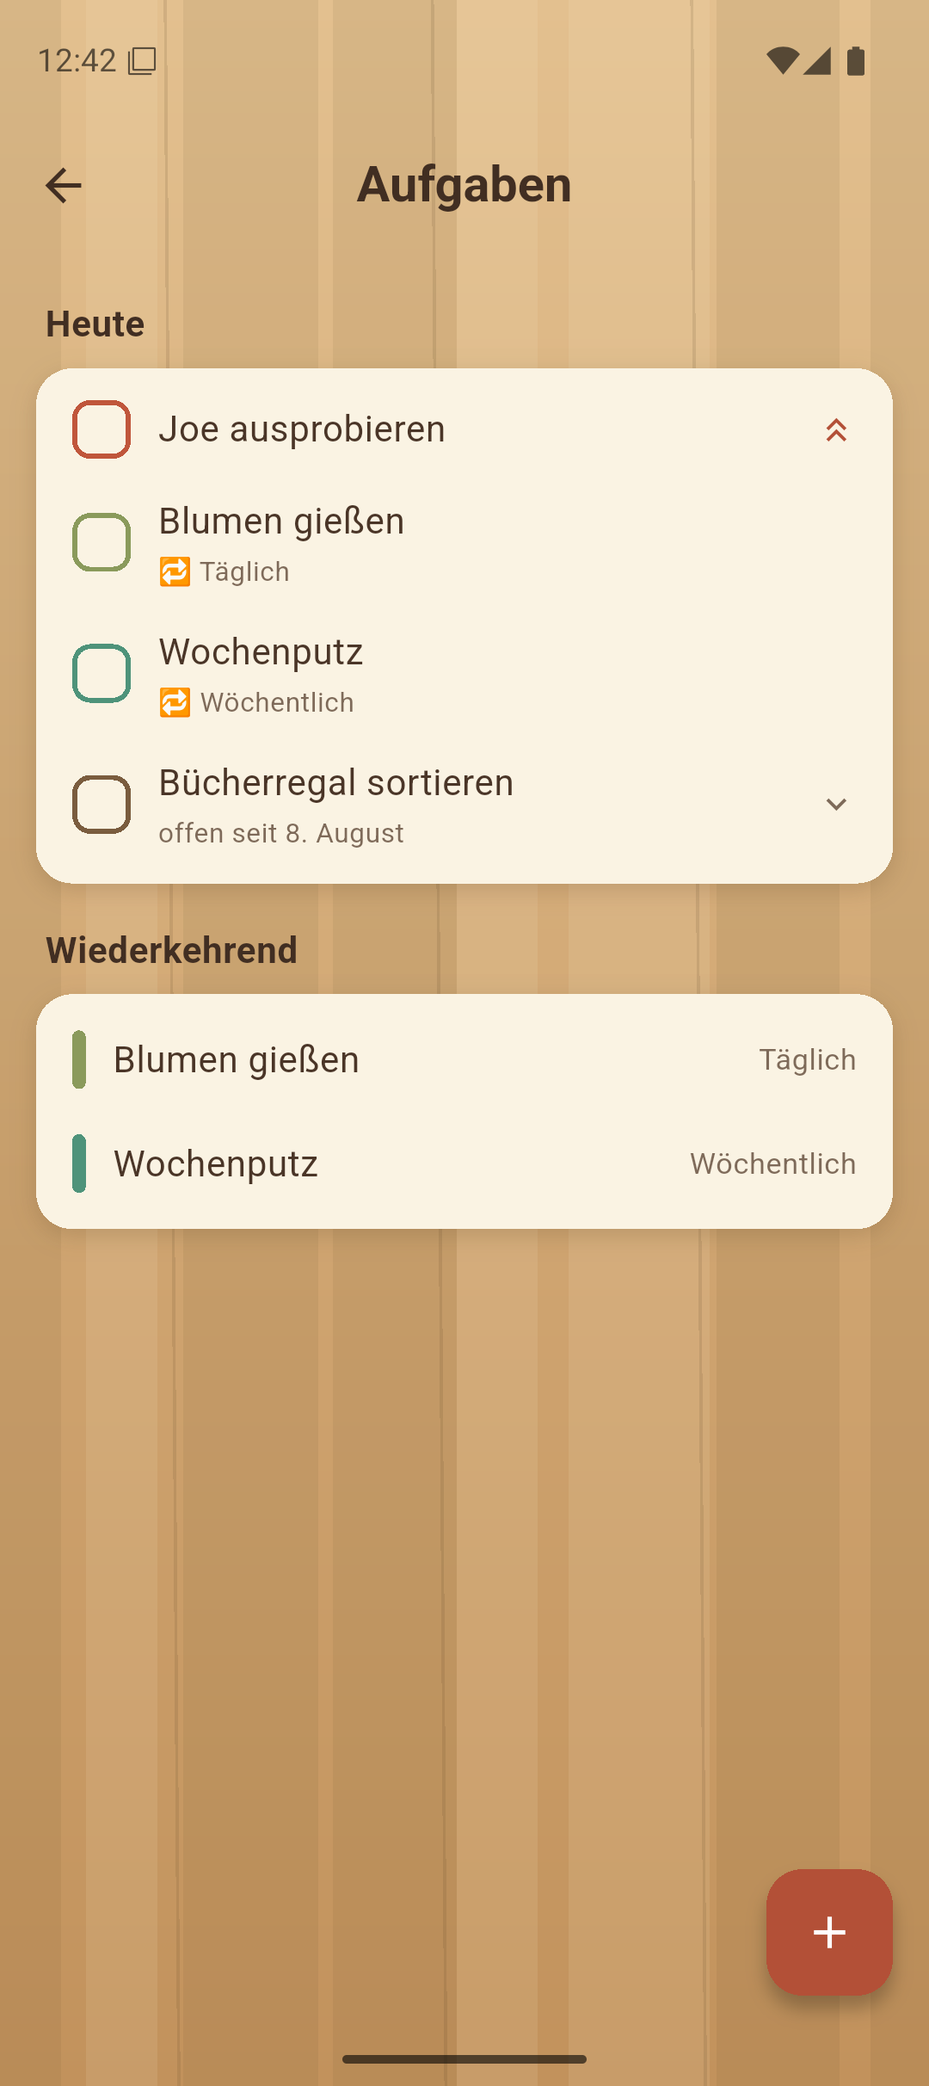
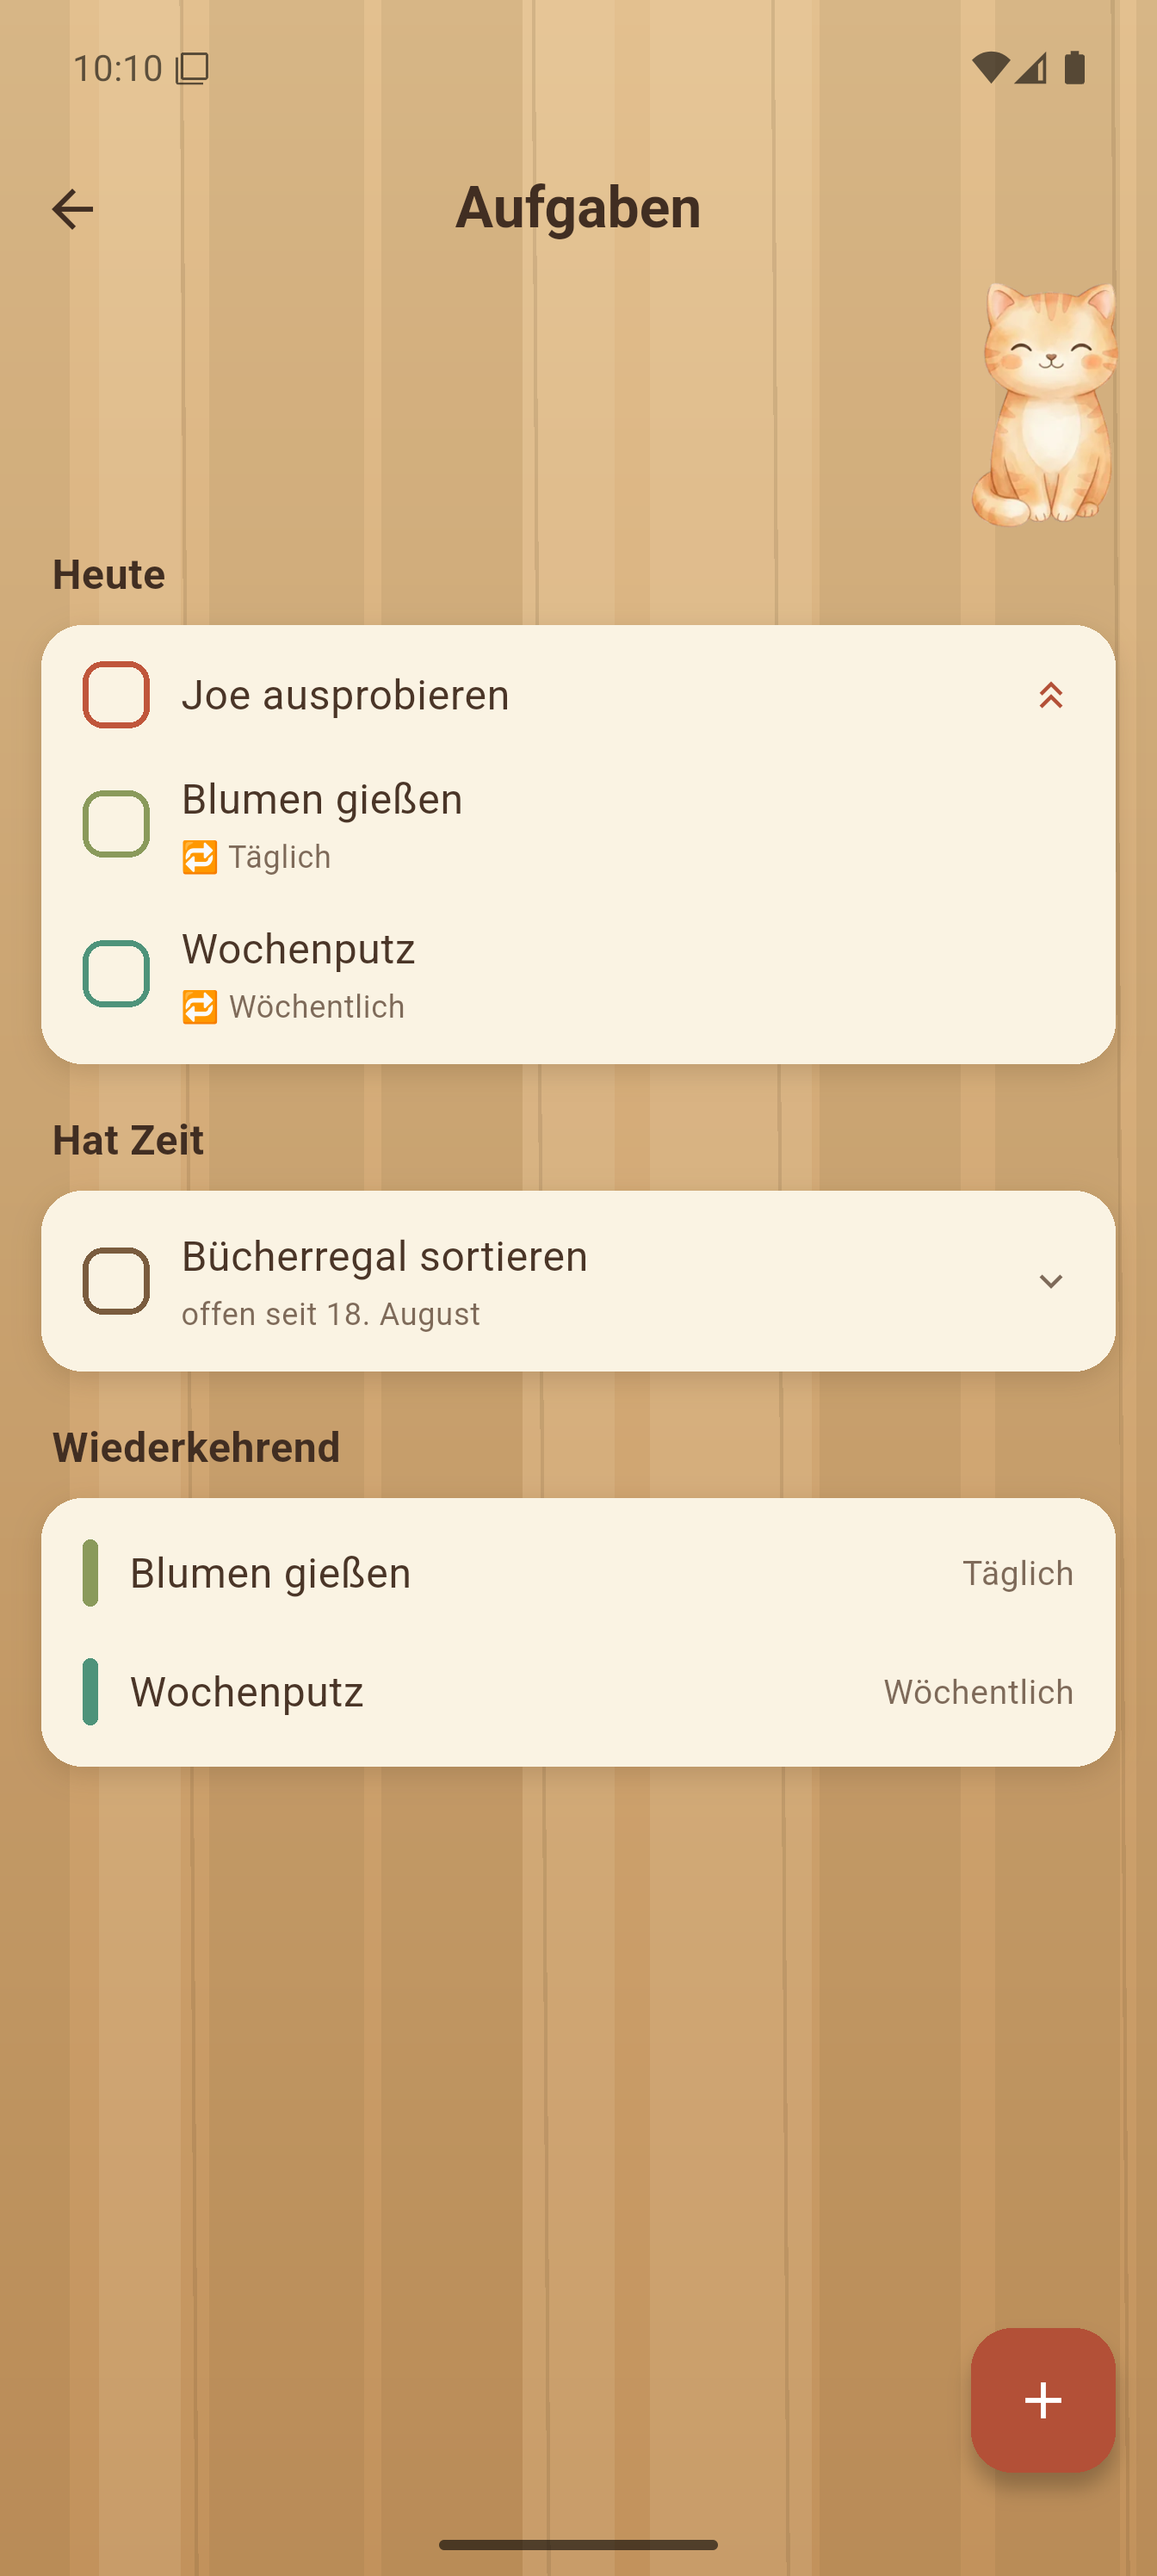
joe-todo: Stufe 3 zaehlt nur an ihrem Faelligkeitstag mit
Stufe 3 ist die leise Prioritaet. Zaehlt sie dauerhaft in "x offene Aufgaben
heute" mit, waechst die Zahl mit jedem Tag, an dem man sie liegen laesst -
und genau davor sollen die Prioritaeten schuetzen. Zaehlt sie nie mit,
verschwindet sie auch an dem Tag, an dem sie faellig ist.

Also beides: an ihrem Faelligkeitstag zaehlt sie wie jede andere Aufgabe,
danach faellt sie aus der Kopfzahl und steht nur noch im Aufklapper unter
"Hat Zeit" (vorher "Kann warten" - der Name sagte, sie duerfe warten, nicht
dass sie schon wartet). Die Grenze zieht isLowLeftover, openLowTasks heisst
darum jetzt lowLeftoverTasks.

Das Homescreen-Widget hatte die Filterung nachgebaut und zieht mit, sonst
stuende dort eine andere Zahl als in der App.

Claude-Session: https://claude.ai/code/session_01GTTHh3KS7ZpoGwavN3S3nZ

diff --git a/app/lib/models.dart b/app/lib/models.dart
@@ -47,8 +47,9 @@ const taskPaletteNames = [
 enum RecurrenceType { none, daily, weekly, monthly, everyXDays }
 
 /// Three priority levels for tasks and appointments. Level 3 ("Niedrig") is
-/// the quiet one: those tasks stay out of the open-count on the dashboard and
-/// only show up inside the fold-out list.
+/// the quiet one: an ihrem Faelligkeitstag zaehlt sie mit wie jede andere,
+/// danach faellt sie aus "x offene Aufgaben heute" heraus und steht nur noch
+/// unter "Hat Zeit" (siehe [isLowLeftover]).
 enum Priority {
   hoch(1, 'Hoch'),
   mittel(2, 'Mittel'),
@@ -203,6 +204,25 @@ class Appointment {
         reminderLeadMinutes: leadMinutesFromJson(json['reminderLeadMinutes']),
       );
 }
+
+/// Ob [task] an [day] nur noch liegen *bleibt*: Stufe 3, deren
+/// Faelligkeitstag vorbei ist.
+///
+/// Das ist die Grenze, an der sich Stufe 3 vom Rest trennt. An ihrem
+/// Faelligkeitstag ist eine leise Aufgabe eine Aufgabe wie jede andere: sie
+/// steht unter "Heute abhaken" und zaehlt in "x offene Aufgaben heute". Erst
+/// danach faellt sie aus der Zahl heraus und wandert in den Block "Hat Zeit"
+/// – sie sollte an ihrem Tag erledigt sein, muss aber nicht, und eine Zahl,
+/// die von so etwas jeden Tag weiterwaechst, sagt bald nichts mehr.
+///
+/// Nur einmalige Aufgaben koennen liegenbleiben: eine wiederkehrende ist an
+/// einem Tag entweder faellig oder gar nicht dabei.
+///
+/// Steht hier und nicht im [AppState], weil die Startbildschirm-Widgets
+/// dieselbe Grenze fuer *jeden* Tag ihres Schnappschusses brauchen, nicht
+/// nur fuer heute (siehe home_widget.dart).
+bool isLowLeftover(Task task, DateTime day) =>
+    task.priority == Priority.niedrig && !task.occursOn(day);
 
 /// Eine Erinnerungs-Uhrzeit aus dem Bestand: alles, was keine gueltige
 /// Minute im Tag ist (fehlt, falscher Typ, ausserhalb 0–1439), heisst
@@ -450,8 +470,8 @@ class AppState extends ChangeNotifier {
         colorIndex: 0,
         priority: Priority.hoch,
       ),
-      // Stufe 3: zaehlt nicht in "offene Aufgaben heute" mit und steht nur
-      // im Ausklappmenue unter "Kann warten".
+      // Stufe 3, und ihr Faelligkeitstag ist vorbei: sie zaehlt nicht mehr
+      // in "offene Aufgaben heute" mit und steht unter "Hat Zeit".
       Task(
         id: nextId(),
         title: 'Bücherregal sortieren',
@@ -605,47 +625,34 @@ class AppState extends ChangeNotifier {
   static int _soonestFirst(Task a, Task b) =>
       a.startDate.compareTo(b.startDate);
 
-  /// Tasks for the dashboard "Heute abhaken" list, without the unimportant
-  /// ones – those get their own section further down, see [openLowTasks].
-  /// Open items first, then the ones already ticked off.
+  /// Tasks for the dashboard "Heute abhaken" list, without the level-3
+  /// leftovers – those get their own block underneath, see
+  /// [lowLeftoverTasks]. Open items first, then the ones already ticked off.
   List<Task> tasksDueToday() {
     final t = today();
-    return _dueToday()
-        .where((task) => task.priority != Priority.niedrig)
-        .toList()
+    return _dueToday().where((task) => !isLowLeftover(task, t)).toList()
       ..sort(_ordered([_openFirstOn(t), _importantFirst]));
   }
 
-  /// Open level-3 tasks, newest first. Sie stehen im Aufklapper auf einem
-  /// eigenen Block, zaehlen in [openTodayCount] aber ganz normal mit.
-  List<Task> openLowTasks() {
+  /// Die liegengebliebenen Stufe-3-Aufgaben, neuste zuerst – der Block
+  /// "Hat Zeit" unter "Heute abhaken" und auf dem Aufgaben-Reiter.
+  ///
+  /// Sie sind immer offen: liegenbleiben kann nur eine einmalige Aufgabe,
+  /// die noch niemand abgehakt hat.
+  List<Task> lowLeftoverTasks() {
     final t = today();
-    return _dueToday()
-        .where((task) =>
-            task.priority == Priority.niedrig && !task.isCompletedOn(t))
-        .toList()
+    return _dueToday().where((task) => isLowLeftover(task, t)).toList()
       ..sort(_ordered([_newestFirst]));
   }
 
-  /// Was heute noch offen auf dem Teller liegt. Stufe 3 zaehlt mit: sie ist
-  /// heute genauso faellig wie der Rest, nur weiter unten einsortiert.
+  /// Was heute noch offen auf dem Teller liegt. Stufe 3 zaehlt an ihrem
+  /// Faelligkeitstag mit – da ist sie so faellig wie alles andere –, danach
+  /// nicht mehr (siehe [isLowLeftover]).
   int openTodayCount() {
     final t = today();
-    return _dueToday().where((task) => !task.isCompletedOn(t)).length;
-  }
-
-  // ---- Sections of the tasks screen ----
-
-  /// Level-3 tasks due today for the "Kann warten" block on the tasks screen.
-  /// Open first and inside that newest first, like in the dashboard fold-out.
-  /// Unlike the dashboard this keeps the ticked ones: the tasks screen is the
-  /// one place where a recurring level-3 tick can be taken back again.
-  List<Task> lowTasksToday() {
-    final t = today();
     return _dueToday()
-        .where((task) => task.priority == Priority.niedrig)
-        .toList()
-      ..sort(_ordered([_openFirstOn(t), _newestFirst]));
+        .where((task) => !task.isCompletedOn(t) && !isLowLeftover(task, t))
+        .length;
   }
 
   /// One-off tasks dated after today, soonest first.

diff --git a/app/test/models_test.dart b/app/test/models_test.dart
@@ -110,7 +110,7 @@ void main() {
       expect(appointment.priority, Priority.mittel);
     });
 
-    test('Stufe 3 zählt in "offene Aufgaben heute" mit', () {
+    test('Stufe 3 zählt an ihrem Faelligkeitstag mit', () {
       final t = today();
       final state = stateWith(tasks: [
         Task(id: '1', title: 'Wichtig', startDate: t, priority: Priority.hoch),
@@ -121,11 +121,59 @@ void main() {
             startDate: t,
             priority: Priority.niedrig),
       ]);
-      // Die Zahl nennt alles, was heute faellig und offen ist; die Trennung
-      // in zwei Bloecke ist nur eine der Anzeige.
+      // Heute ist sie faellig wie jede andere: sie zaehlt mit und steht in
+      // derselben Liste, nur hinter den wichtigeren.
       expect(state.openTodayCount(), 3);
-      expect(state.tasksDueToday().map((x) => x.id), ['1', '2']);
-      expect(state.openLowTasks().map((x) => x.id), ['3']);
+      expect(state.tasksDueToday().map((x) => x.id), ['1', '2', '3']);
+      expect(state.lowLeftoverTasks(), isEmpty);
+    });
+
+    test('danach faellt sie aus der Zahl und wandert in "Hat Zeit"', () {
+      final t = today();
+      final state = stateWith(tasks: [
+        Task(id: '2', title: 'Normal', startDate: t),
+        Task(
+          id: '3',
+          title: 'Unwichtig',
+          startDate: t.subtract(const Duration(days: 1)),
+          priority: Priority.niedrig,
+        ),
+      ]);
+      // Gestern hat sie noch gezaehlt, heute nicht mehr – sonst waechst die
+      // Zahl von etwas weiter, das ausdruecklich Zeit hat.
+      expect(state.openTodayCount(), 1);
+      expect(state.tasksDueToday().map((x) => x.id), ['2']);
+      expect(state.lowLeftoverTasks().map((x) => x.id), ['3']);
+    });
+
+    test('eine ueberfaellige Aufgabe anderer Stufen zaehlt weiter mit', () {
+      final t = today();
+      final state = stateWith(tasks: [
+        Task(
+          id: 'gestern',
+          title: 'Liegengeblieben',
+          startDate: t.subtract(const Duration(days: 1)),
+        ),
+      ]);
+      expect(state.openTodayCount(), 1);
+      expect(state.tasksDueToday().map((x) => x.id), ['gestern']);
+    });
+
+    test('eine wiederkehrende Stufe 3 zaehlt an jedem ihrer Tage', () {
+      final t = today();
+      final state = stateWith(tasks: [
+        Task(
+          id: 'taeglich',
+          title: 'Leise, aber taeglich',
+          recurrence: RecurrenceType.daily,
+          startDate: t.subtract(const Duration(days: 10)),
+          priority: Priority.niedrig,
+        ),
+      ]);
+      // Eine wiederkehrende Aufgabe bleibt nie liegen: heute ist sie faellig
+      // oder gar nicht dabei.
+      expect(state.openTodayCount(), 1);
+      expect(state.lowLeftoverTasks(), isEmpty);
     });
 
     test('Stufe 3 faellt aus der Zahl, sobald sie abgehakt ist', () {
@@ -141,7 +189,7 @@ void main() {
       expect(state.openTodayCount(), 1);
     });
 
-    test('offene Stufe-3-Aufgaben kommen neuste zuerst', () {
+    test('liegengebliebene Stufe-3-Aufgaben kommen neuste zuerst', () {
       final t = today();
       final state = stateWith(tasks: [
         Task(
@@ -163,10 +211,13 @@ void main() {
           priority: Priority.niedrig,
         ),
       ]);
-      expect(state.openLowTasks().map((x) => x.id), ['neu', 'mittig', 'alt']);
+      expect(
+        state.lowLeftoverTasks().map((x) => x.id),
+        ['neu', 'mittig', 'alt'],
+      );
     });
 
-    test('Aufgaben-Reiter haelt Stufe 3 aus "Heute" heraus', () {
+    test('nur das Liegengebliebene trennt sich von "Heute"', () {
       final t = today();
       final done = Task(
         id: 'erledigt',
@@ -192,24 +243,27 @@ void main() {
         ),
         done,
       ]);
-      expect(state.tasksDueToday().map((x) => x.id), ['normal']);
-      // Offen zuerst und darin neuste zuerst, Abgehaktes bleibt am Ende
-      // stehen – nur hier laesst sich ein Haken zurueckziehen.
+      // Heute faellig – die leise von heute und die abgehakte wiederkehrende
+      // stehen mit unter "Heute", die abgehakte am Ende: nur dort laesst
+      // sich ein Haken zurueckziehen.
       expect(
-        state.lowTasksToday().map((x) => x.id),
-        ['neu', 'alt', 'erledigt'],
+        state.tasksDueToday().map((x) => x.id),
+        ['normal', 'neu', 'erledigt'],
       );
+      expect(state.lowLeftoverTasks().map((x) => x.id), ['alt']);
     });
 
-    test('abgehakte Stufe-3-Aufgaben verschwinden aus der Liste', () {
+    test('abgehakte Stufe-3-Aufgaben fallen aus der Zahl', () {
       final t = today();
       final task = Task(
           id: '1', title: 'Unwichtig', startDate: t, priority: Priority.niedrig);
       final state = stateWith(tasks: [task]);
-      expect(state.openLowTasks(), hasLength(1));
+      expect(state.openTodayCount(), 1);
       task.completedDates.add(dateKey(t));
-      expect(state.openLowTasks(), isEmpty);
       expect(state.openTodayCount(), 0);
+      // Abgehakt bleibt sie stehen, damit der Haken zurueckgenommen werden
+      // kann – sie zaehlt nur nicht mehr.
+      expect(state.tasksDueToday(), hasLength(1));
     });
   });
 

diff --git a/app/test/tasks_test.dart b/app/test/tasks_test.dart
@@ -27,7 +27,7 @@ Future<AppState> pumpTasks(WidgetTester tester, List<Task> tasks) async {
 }
 
 void main() {
-  testWidgets('Stufe 3 steht unter "Kann warten", nicht unter "Heute"',
+  testWidgets('liegengebliebene Stufe 3 steht unter "Hat Zeit"',
       (tester) async {
     final t = today();
     await pumpTasks(tester, [
@@ -43,11 +43,11 @@ void main() {
     double y(String label) => tester.getTopLeft(find.text(label)).dy;
 
     expect(find.text('Heute'), findsOneWidget);
-    expect(find.text('Kann warten'), findsOneWidget);
-    // Reihenfolge auf dem Blatt: Heute > Normal > Kann warten > Unwichtig.
+    expect(find.text('Hat Zeit'), findsOneWidget);
+    // Reihenfolge auf dem Blatt: Heute > Normal > Hat Zeit > Unwichtig.
     expect(y('Heute'), lessThan(y('Normal')));
-    expect(y('Normal'), lessThan(y('Kann warten')));
-    expect(y('Kann warten'), lessThan(y('Unwichtig')));
+    expect(y('Normal'), lessThan(y('Hat Zeit')));
+    expect(y('Hat Zeit'), lessThan(y('Unwichtig')));
     expect(
       find.text('offen seit ${formatDate(t.subtract(const Duration(days: 4)))}'),
       findsOneWidget,
@@ -60,6 +60,21 @@ void main() {
     ]);
 
     expect(find.text('Heute'), findsOneWidget);
-    expect(find.text('Kann warten'), findsNothing);
+    expect(find.text('Hat Zeit'), findsNothing);
+  });
+
+  testWidgets('an ihrem Faelligkeitstag steht Stufe 3 unter "Heute"',
+      (tester) async {
+    final t = today();
+    await pumpTasks(tester, [
+      Task(id: '1', title: 'Normal', startDate: t),
+      Task(id: '2', title: 'Leise', startDate: t, priority: Priority.niedrig),
+    ]);
+
+    // Heute ist sie eine Aufgabe wie jede andere; der eigene Block kommt
+    // erst, wenn sie liegengeblieben ist.
+    expect(find.text('Heute'), findsOneWidget);
+    expect(find.text('Hat Zeit'), findsNothing);
+    expect(find.text('Leise'), findsOneWidget);
   });
 }

diff --git a/app/lib/screens/tasks.dart b/app/lib/screens/tasks.dart
@@ -15,16 +15,22 @@ class TasksScreen extends StatelessWidget {
     final theme = joeThemeOf(context);
     final t = today();
     final todayTasks = state.tasksDueToday();
-    final lowToday = state.lowTasksToday();
+    final lowLeftovers = state.lowLeftoverTasks();
     final upcoming = state.upcomingTasks();
     final recurring = state.recurringTasks();
     final done = state.doneTasks();
 
+    const page = PetPage.tasks;
     return JoeScaffold(
+      page: page,
       title: 'Aufgaben',
       body: SafeArea(
         child: ListView(
-          padding: const EdgeInsets.fromLTRB(16, 4, 16, 96),
+          padding: petPadding(
+            context,
+            page,
+            const EdgeInsets.fromLTRB(16, 4, 16, 96),
+          ),
           children: [
             if (state.tasks.isEmpty)
               PaperCard(
@@ -42,14 +48,15 @@ class TasksScreen extends StatelessWidget {
                 ],
               ),
             ],
-            // Stufe 3 steht auch hier fuer sich: sie zaehlt nirgends in
-            // "heute faellig" mit, sonst waere der Reiter wieder die Liste,
-            // vor der die Prioritaeten schuetzen sollen.
-            if (lowToday.isNotEmpty) ...[
-              const SectionTitle('Kann warten'),
+            // Liegengebliebene Stufe 3 steht hier fuer sich – an ihrem
+            // Faelligkeitstag stand sie noch oben unter "Heute" und zaehlte
+            // ganz normal mit. Erst danach zieht sie hierher um, wo sie
+            // niemanden mehr draengt.
+            if (lowLeftovers.isNotEmpty) ...[
+              const SectionTitle('Hat Zeit'),
               _TaskCard(
                 children: [
-                  for (final task in lowToday)
+                  for (final task in lowLeftovers)
                     TaskTile(task: task, day: t, showOverdue: true),
                 ],
               ),

diff --git a/app/test/home_widget_test.dart b/app/test/home_widget_test.dart
@@ -113,7 +113,7 @@ void main() {
       expect(tasks.first['color'], matches(r'^#[0-9a-f]{8}$'));
     });
 
-    test('zaehlt offene Aufgaben wie das Dashboard, Stufe 3 eingeschlossen', () {
+    test('zaehlt wie das Dashboard: Stufe 3 nur am Faelligkeitstag', () {
       final state = stateWith(
         tasks: [
           Task(
@@ -130,12 +130,23 @@ void main() {
           ),
         ],
       );
-      final day = dayOf(snapshotOf(state), heute)!;
+      final snapshot = snapshotOf(state);
+
+      final day = dayOf(snapshot, heute)!;
       expect(day['open'], 2);
       expect(day['taskCount'], 2);
-      // Die leise Aufgabe zaehlt mit, steht in der Liste aber ganz unten.
+      // Die leise Aufgabe zaehlt an ihrem Tag mit, steht in der Liste aber
+      // ganz unten.
       expect((day['tasks'] as List).last['title'], 'Leise');
-      expect(day['open'], state.openTodayCount());
+
+      // Am Tag darauf liegen beide noch da – aber die leise draengt nicht
+      // mehr und faellt aus der Zahl. Die Widgets muessen dieselbe Zahl
+      // zeigen wie die App, sonst widersprechen sie sich auf demselben
+      // Bildschirm.
+      final morgen = dayOf(snapshot, heute.add(const Duration(days: 1)))!;
+      expect(morgen['taskCount'], 2);
+      expect(morgen['open'], 1);
+      expect((morgen['tasks'] as List).map((t) => t['low']), [false, true]);
     });
 
     test('nimmt Termine mit Uhrzeit als Minute im Tag', () {

diff --git a/app/lib/home_widget.dart b/app/lib/home_widget.dart
@@ -142,8 +142,12 @@ Map<String, dynamic> buildWidgetSnapshot(AppState state, {DateTime? now}) {
       ],
       'taskCount': tasks.length,
       // Die Kopfzeile zaehlt wie das Dashboard: alles, was an dem Tag offen
-      // ist – Stufe 3 eingeschlossen.
-      'open': tasks.where((t) => !t.isCompletedOn(d)).length,
+      // ist – Stufe 3 nur an ihrem Faelligkeitstag, danach nicht mehr
+      // (siehe isLowLeftover). Sonst stuende im Widget eine andere Zahl als
+      // in der App.
+      'open': tasks
+          .where((t) => !t.isCompletedOn(d) && !isLowLeftover(t, d))
+          .length,
       'appointments': [
         for (final a in appointments.take(widgetEntriesPerDay))
           {
